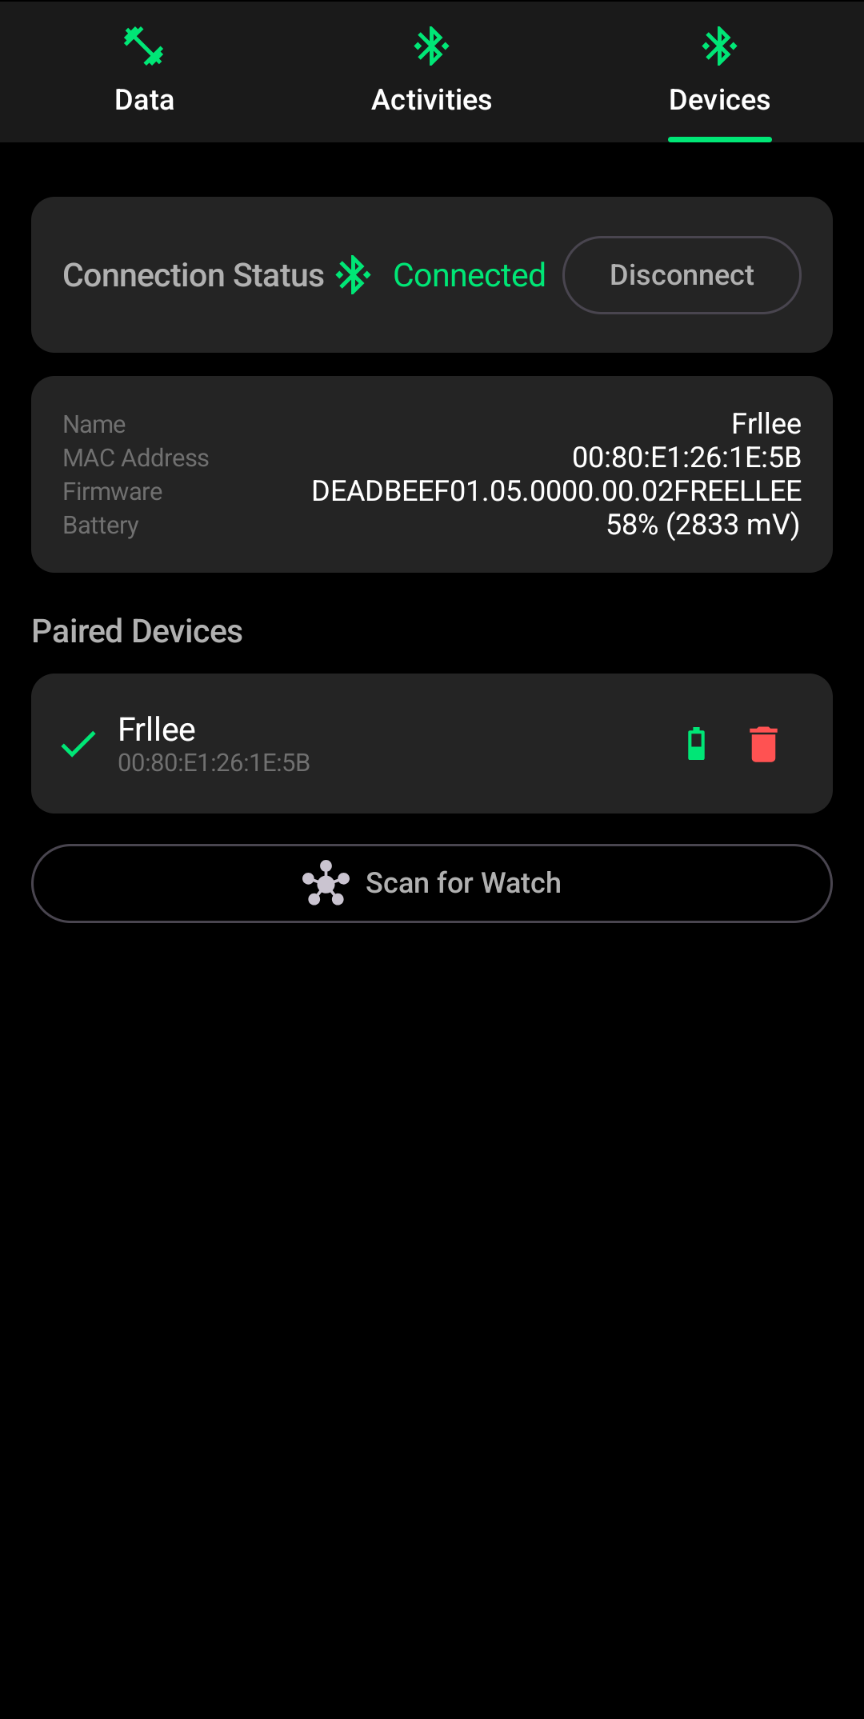
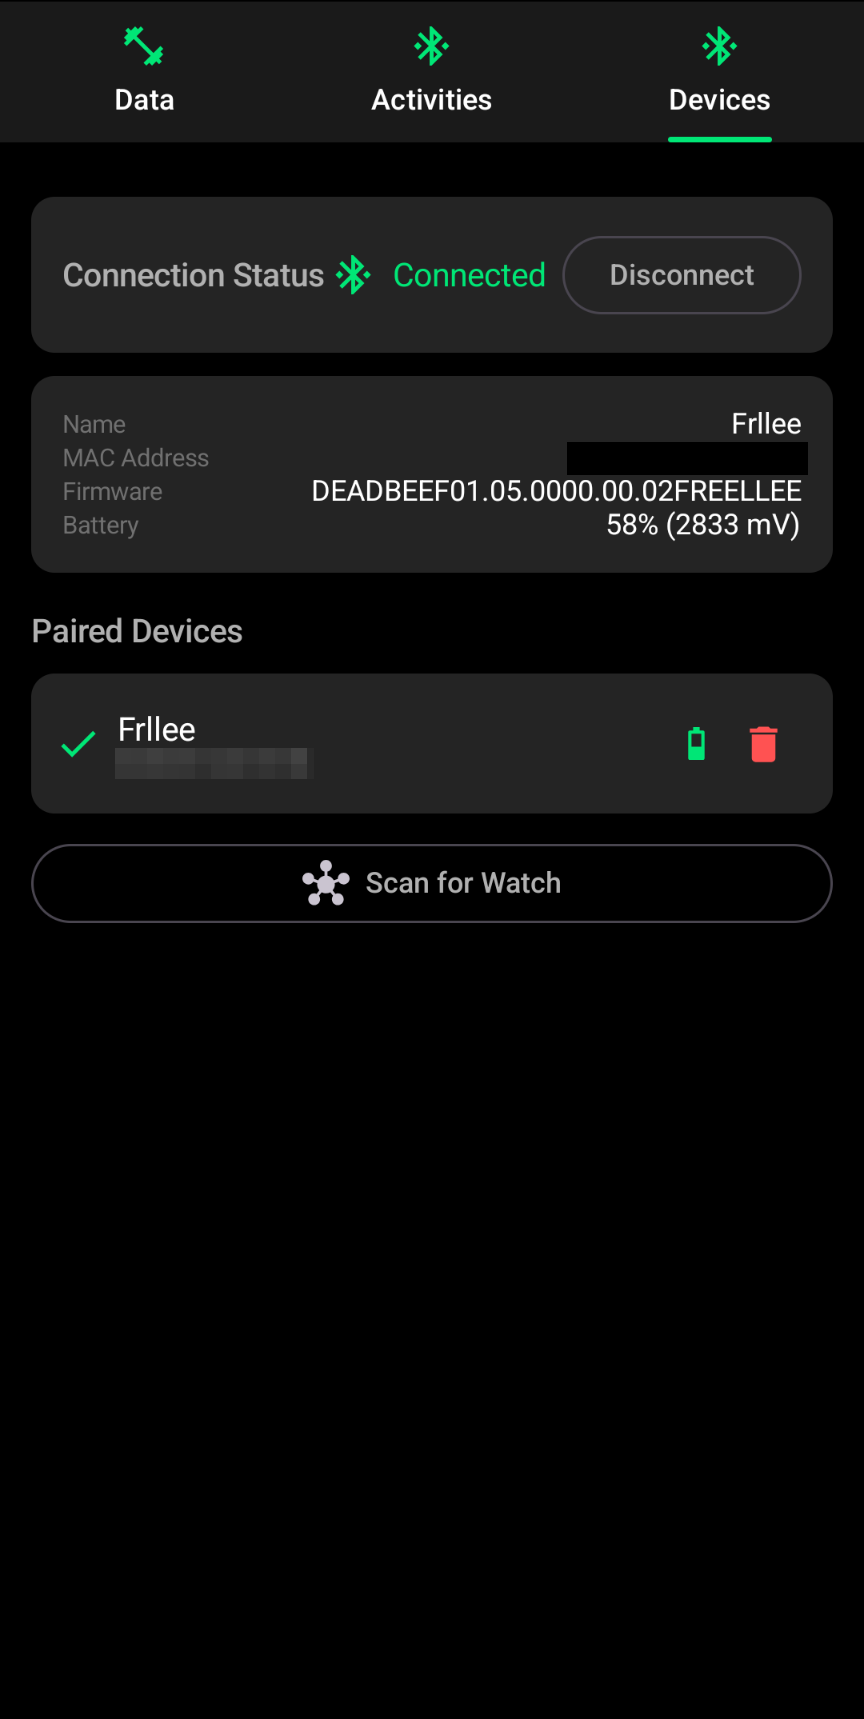
Remove duplicate screenshots/ directory

diff --git a/AGENTS.md b/AGENTS.md
@@ -28,3 +28,19 @@ Top-level files: `FreelleeApp.kt` (DI), `Constants.kt` (BLE timeouts, defaults),
 
 - **Never push without explicit permission** — commits are fine; pushes require approval.
 - **Treat warnings as errors** — fix the root cause, don't silence them without permission.
+
+## Release Procedure
+
+When performing a new release (new tag), follow these steps in order:
+
+1. **Bump the version** — Edit `app/build.gradle.kts` and increment `versionCode` by 1. Set `versionName` to the new version string (e.g. `0.0.3`).
+
+2. **Write a user-facing changelog** — Create `fastlane/metadata/android/en-US/changelogs/<versionCode>.txt`. The text should be concise and highlight the changes that matter to end users (new features, bug fixes, breaking changes). Avoid implementation details like dependency bumps or CI tweaks unless they have a visible effect.
+
+3. **Commit the version bump** — Commit the changes to `app/build.gradle.kts` and the new changelog file. Do **not** push yet.
+
+4. **Update F-Droid metadata** — Edit `metadata.link.hector.freellee.yml`: update `CurrentVersion` / `CurrentVersionCode`, and add a `Builds` entry with the commit hash of the release commit. Commit this update. Do **not** push yet.
+
+5. **User review** — Present the full diff and the tag message to the user for review. Do not push or tag until explicit approval is given.
+
+6. **Push and tag** — Once approved, push to `master`, then create an annotated (signed) tag with `git tag -s v<versionName> -m "Release v<versionName>"` (e.g. `v0.0.3`) and push it with `git push origin v<versionName>`. This triggers the GitHub Actions Release workflow, which builds the signed APK, generates a SHA-256 checksum, and publishes a GitHub Release. F-Droid will pick up the new version on its next scan.
